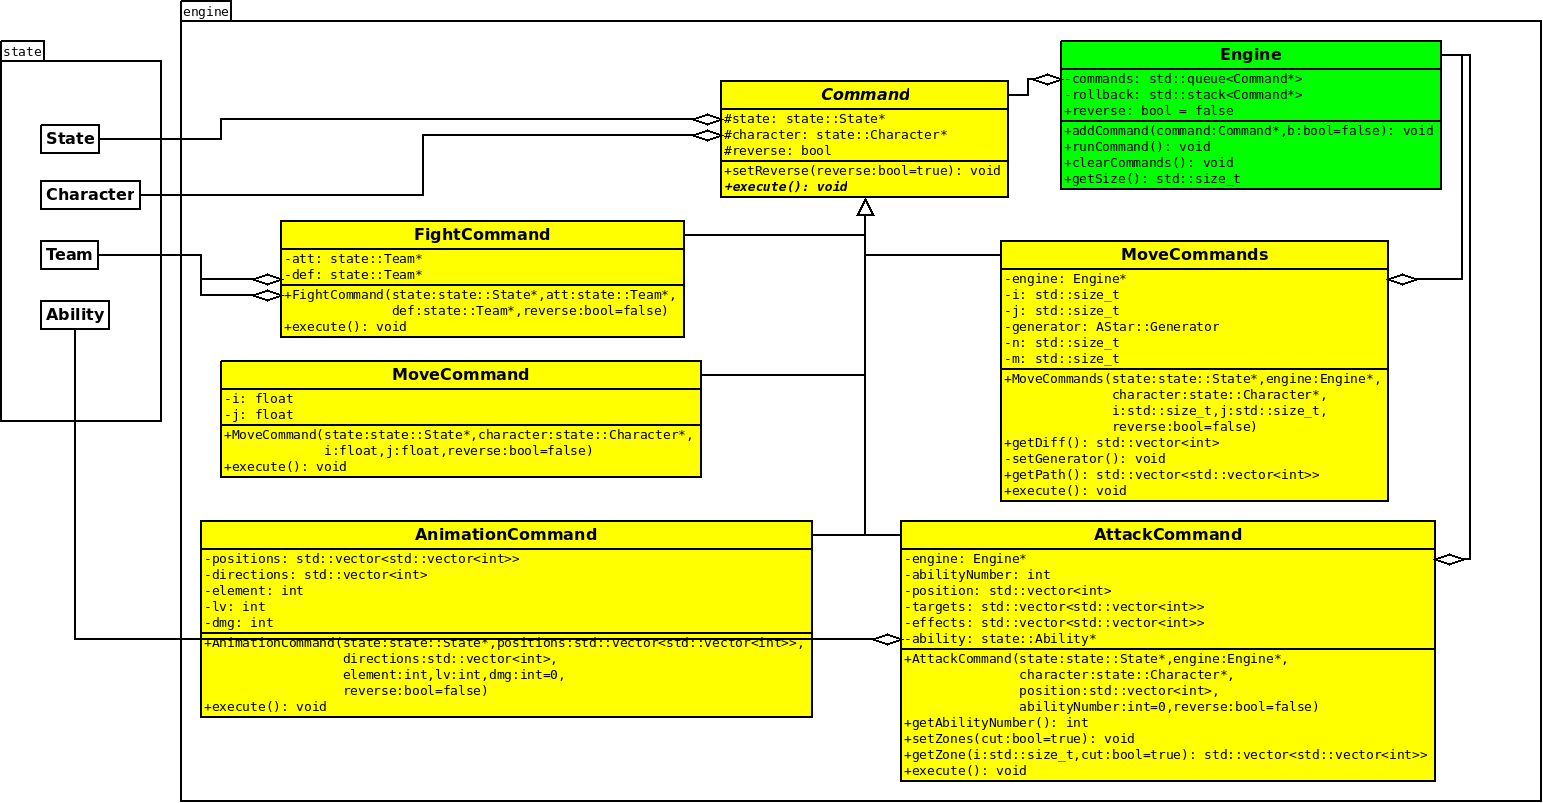
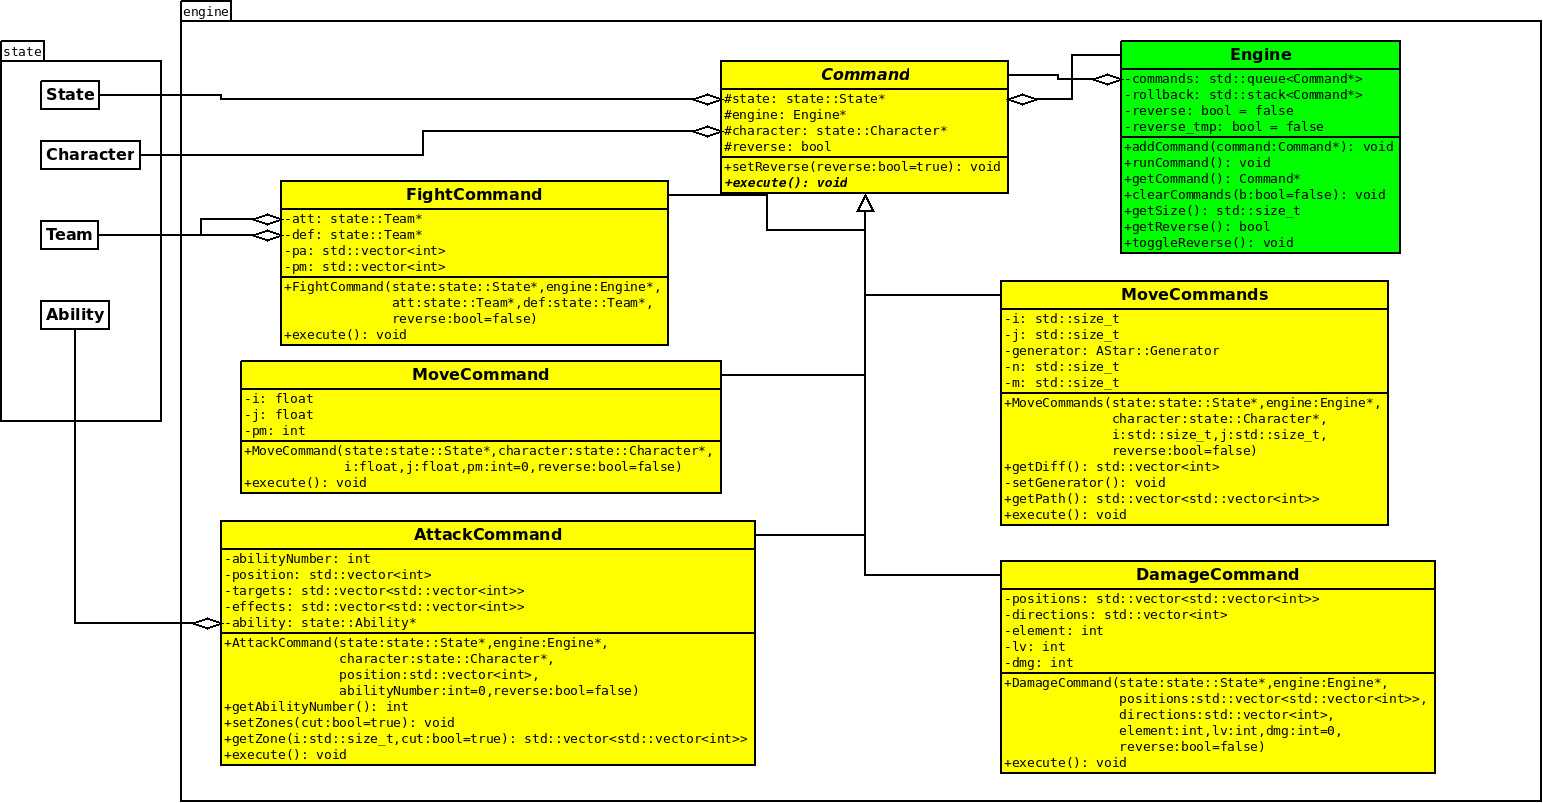
rapport

diff --git a/rapport/Rapport.tex b/rapport/Rapport.tex
@@ -316,7 +316,7 @@ Le diagramme des classes pour le moteur du jeu est présenté en Figure~\ref{uml
 \textbf{Classes Command} Ces classes représentent les commandes exécutées par le moteur. 
 \begin{itemize}
 \item MoveCommands permet de générer l'ensemble des commandes individuelles MoveCommand afin de créer une animation de déplacement en utilisant un pathfinding A* (rapide mais ne générant pas nécessairement le chemin le plus optimal) et FightCommand en cas de rencontre avec un ennemi, ce qui lance la phase de combat.
-\item AttackCommand permet aux différents personnages d'attaquer avec leurs capacités et ainsi d'infliger des dégâts à différentes cibles et génère des commandes DamageCommand pour générer les animations d'attaque.
+\item AttackCommand permet aux différents personnages d'attaquer avec leurs capacités et ainsi d'infliger des dégâts à différentes cibles et génère des commandes DamageCommand pour générer les dégâts ainsi que les animations d'attaque.
 \end{itemize}
 
 
@@ -344,6 +344,10 @@ L'IA execute des commandes aléatoires parmi le mouvement et l'attaque, s'il lui
 L'IA balaye toutes les positions possibles du personnage et pour chaque position va affecter un Score à chaque attaque possible à partir de cette position : pour chaque dégât réellement infligé à un ennemi (respectivement un allié) le score augmente (respectivement diminue) de ce montant (un soin est considéré comme des dégâts négatifs). Si un personnage meurt suite à cette attaque, le score est majoré (respectivement minoré), mais si les dégâts sont beaucoup plus élevés que la vie du personnage, un malus est appliqué pour éviter le gaspillage des ressources. Dans une plus faible proportion, plus l'action coûte de ressources en pa, plus le score diminue, mais plus l'IA se rapproche d'un ennemi, plus le score augmente. Ces différences de score sont minimes devant le score de dégât afin de différencier de manière plus précise des actions de score similaire, et permettent de se rapprocher des ennemis si aucune action n'est possible.
 Une liste de toutes les commandes de même score maximal est établie et une commande aléatoire parmi ces meilleures commandes (déplacement puis attaque) est envoyée au moteur jusqu'à épuisement des pa et pm de chaque joueur (ou la fin du combat).
 
+\subsubsection{Intelligence avancée}
+
+L'IA balaye plusieurs options parmi ses meilleurs coups (actions avec un score au dessus d'un certain seuil fixé) grâce à un arbre de profondeur fixé, représenté par la classe TreeNode, mais cette fois elle peut anticiper les mouvements adverses (qui soustraient leur score au noeud de l'arbre) et permettre de changer plusieurs fois de personnage au lieu de les faire jouer séquentiellement. Le système de score reste identique à celui de l'intelligence heuristique. Un système de rollback permet d'annuler les actions éxécutées de proche en proche, modifiant directement l'état, au lieu de stocker plusieurs copies de l'état actuel.
+
 \clearpage
 \subsection{Conception logiciel}
 Le diagramme de classes pour l'intelligence artificielle est présentée en figure~\ref{uml:ai}
@@ -352,8 +356,10 @@ Le diagramme de classes pour l'intelligence artificielle est présentée en figu
 \begin{itemize}
 \item RandomAI : IA aléatoire
 \item HeuristicAI : IA heuristique
+\item HeuristicAI : IA avancée
 \end{itemize}
-
+\textbf{Score} Cette classe calcule et stocke le score d'une action avec les critères expliqués dans la section de l'intelligence heuristique
+\\\textbf{TreeNode} Chaque noeud possède un parent (sauf la racine de l'arbre), une liste d'enfants, un score et les commandes exécutées pour arriver à ce noeud dans l'arbre. Il est donc associé à un état virtuel du jeu.
 
 \begin{landscape}
     \begin{figure}[p]

diff --git a/src/shared/ai/DeepAI.cpp b/src/shared/ai/DeepAI.cpp
@@ -149,8 +149,9 @@ void DeepAI::buildTree(TreeNode* node, int depth, int teamNumber) {
       childNode->teamNumber = teamNumber;
       childNode->score =
           node->score + (2 * teamNumber - 1) * get<2>(action).getScore();
-      cout << childNode << " " << teamNumber << " " << get<2>(action).getScore()
-           << " " << depth << endl;
+      // cout << childNode << " " << teamNumber << " " <<
+      // get<2>(action).getScore()
+      //      << " " << depth << endl;
       node->children.push_back(childNode);
       if (mv) {
         MoveCommand mvcmd(state, character, i0 + i, j0 + j, i + j);
@@ -185,17 +186,19 @@ vector<Character*> DeepAI::getTurnOrder(vector<Character*> characters) {
   scoremax = 0;
   TreeNode* root = new TreeNode();
   buildTree(root, 2);
-  cout << endl << scoremax << " " << nodeToRun << endl;
+  // cout << endl << scoremax << " " << nodeToRun << endl;
   TreeNode* node = nodeToRun;
-  vector<Command*> cmds;
-  while (node != root) {
-    cmds.push_back(node->commands[1]);
-    cmds.push_back(node->commands[0]);
-    node = node->parent;
-  }
-  while (cmds.size()) {
-    engine->addCommand(cmds.back());
-    cmds.pop_back();
+  if (node) {
+    vector<Command*> cmds;
+    while (node != root) {
+      cmds.push_back(node->commands[1]);
+      cmds.push_back(node->commands[0]);
+      node = node->parent;
+    }
+    while (cmds.size()) {
+      engine->addCommand(cmds.back());
+      cmds.pop_back();
+    }
   }
   return v;
 }
